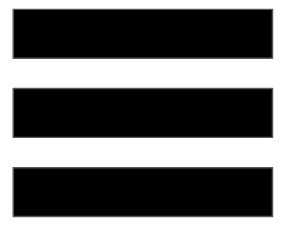
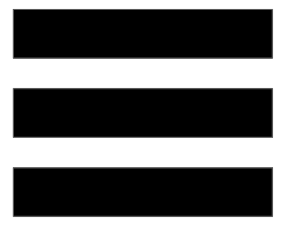
Change

diff --git a/events.html b/events.html
@@ -69,7 +69,7 @@
 
     <div class="footer">
         <img id="altlogo" src="img/logo_alt.png" align="left">
-        <img src="img/instagram-box.png" align="right">
+        <a href=https://www.instagram.com/irhsdeca/><img src="img/instagram-box.png" align="right"></a>
         <a href=https://www.facebook.com/groups/339312426603106/><img src="img/facebook-box.png" align="right"></a>
 <h6><a href="http://ibrahimirfan.com" style="color: black;font-size: 10px;">Ibrahim Irfan</a></h6>
     </div>
